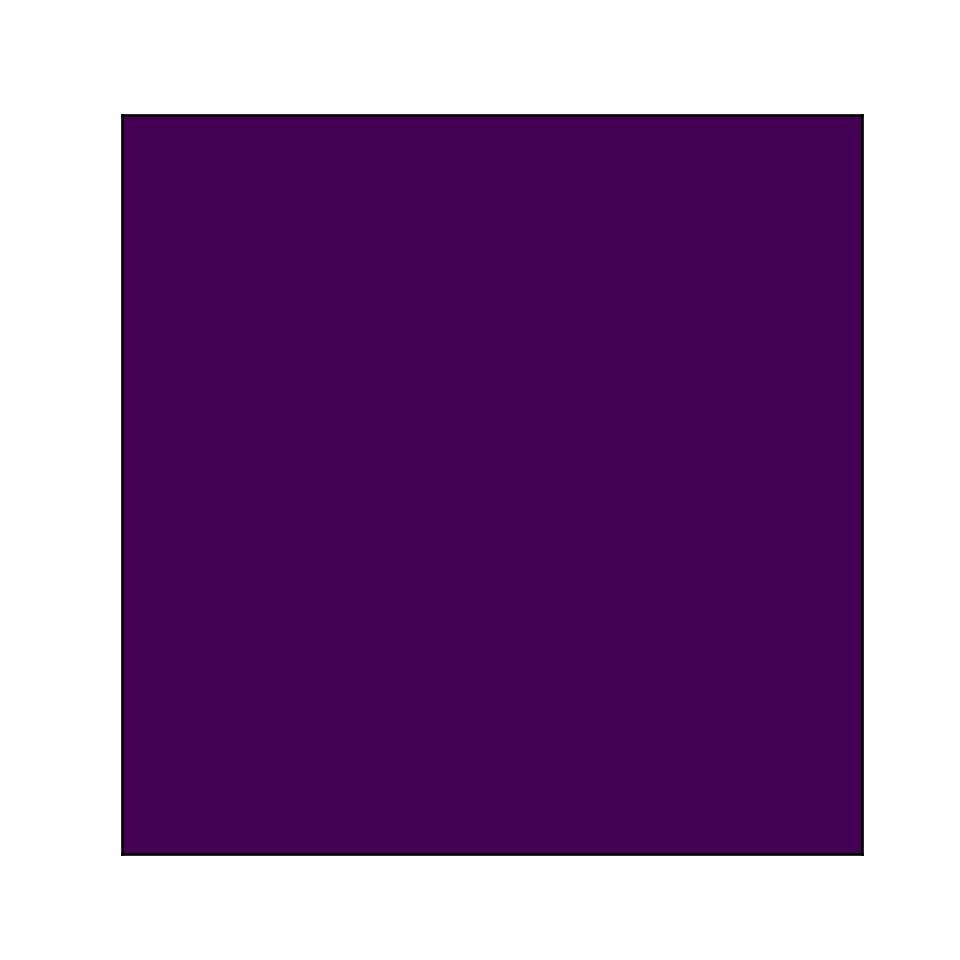
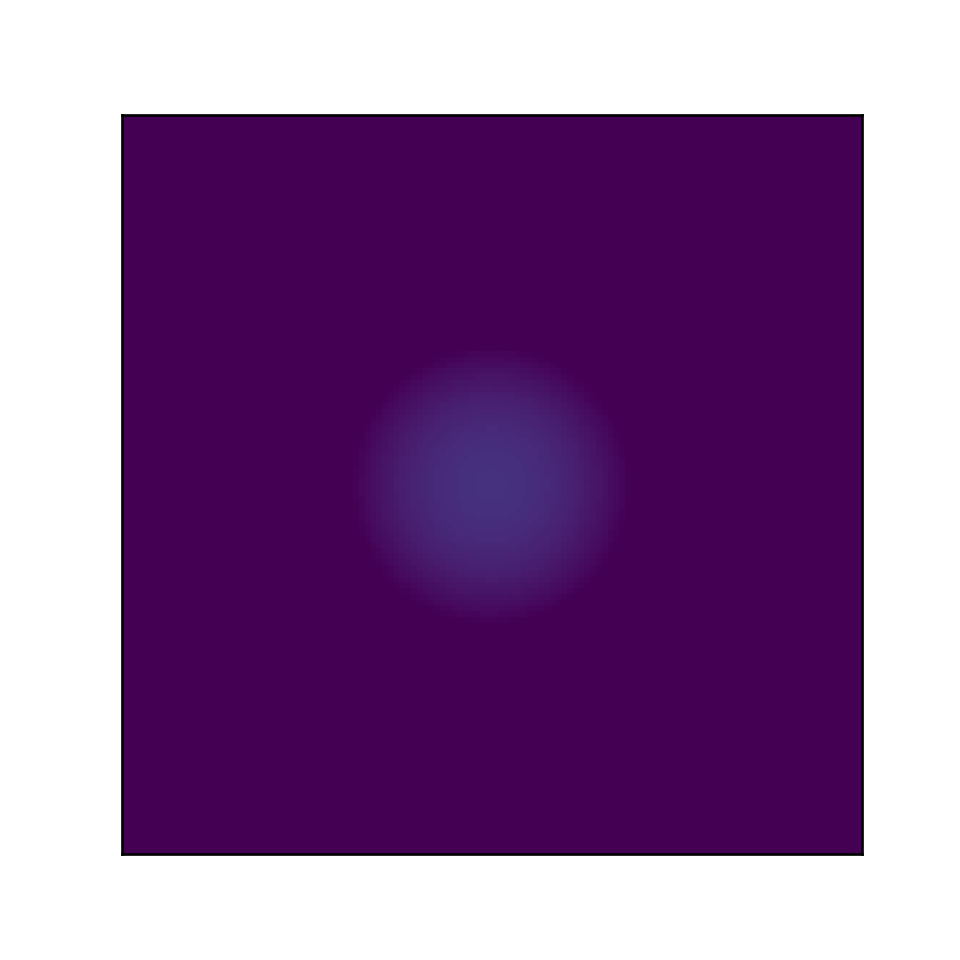
Changes to the initial conditions, fixing bugs with minmod2 function

Changed region(s): [[0.4062, 0.4062, 0.625, 0.625]]

diff --git a/main.py b/main.py
@@ -4,36 +4,51 @@ from scipy.interpolate import CubicSpline, interp1d
 from KTalgorithm import *
 from EoS import *
 
+def plot_density(x,y,z):
+
+    h = plt.contourf(x, y, z)
+    plt.axis('scaled')
+    plt.colorbar()
+    plt.show()
+
 
 def main():
     """ Finite Volume simulation """
     
     # Simulation parameters
     N                      = 128 # resolution
-    boxsize                = 1.
-    gamma                  = 5/3 # ideal gas gamma
-    zeta                   = 1   # bulk viscosity coefficient
+    boxsize                = 1.  # in some unit system l
+    gamma                  = 5/3 # adiabatic index
+    zeta                   = 0.2 # bulk viscosity coefficient
     tau_nu                 = 1
     courant_fac            = 0.4
-    cs                     = 1/3
-    t                      = 0
+    cs                     = 1   # l/s
+    t                      = 0   # s 
     tEnd                   = 2
     tOut                   = 0.02
     plotRealTime = True # switch on for plotting as the simulation goes along
+
+    a = 0  #count
     
     # Mesh
     dx = boxsize / N
     vol = dx**2
-    xlin = np.linspace(0.5*dx, boxsize-0.5*dx, N)
-    Y, X = np.meshgrid( xlin, xlin )
+    xlin = np.linspace(0.5*dx, boxsize-0.5*dx, N, dtype=np.float64 )
+    Y, X = np.meshgrid( xlin, xlin)
     
     # Generate Initial Conditions  
-    
+
     w0 = 0.1
-    rho = np.sqrt((X-(boxsize-0.5*dx)*0.5)**2 + (Y-(boxsize-0.5*dx)*0.5)**2) < 0.5-0.5*dx
-    v1 = w0*np.exp(-(X-(boxsize-0.5*dx)*0.5)**2) 
-    v2 = w0*np.exp(-(Y-(boxsize-0.5*dx)*0.5)**2) 
-    vx = np.sqrt(v1**2 + v2**2)
+    sigma = 5/np.sqrt(2.)
+    rho = np.exp(-(X-(boxsize-0.5*dx)*0.5)**2  / 2*(sigma**2) - (Y-(boxsize-0.5*dx)*0.5)**2 / 2*(sigma**2)) 
+    # put Cubic spline in place of Gaussian
+    plot_density(X,Y,rho)
+
+
+    v1 = -w0*np.exp(-(X-(boxsize-0.5*dx)*0.5)**2 / 2*(sigma**2)) 
+    v2 = -w0*np.exp(-(Y-(boxsize-0.5*dx)*0.5)**2 / 2*(sigma**2)) 
+    vx =  np.sin( np.sqrt(v1**2 + v2**2))
+    plot_density(X,Y,vx)
     P = 2.5 * np.ones(X.shape)
     Pi = np.zeros(X.shape)
     Pi_vx = Pi*vx
@@ -47,14 +62,16 @@ def main():
 
     # Simulation Main Loop
     while t < tEnd:
-        
+
         # get Primitive variables
         rho, vx, P = getPrimitive( Mass, Momx, Energy, gamma, vol )
+
+        #print(a,rho)
+        #a +=1
         
         # get time step (CFL) = dx / max signal speed
-        dt = courant_fac * np.min( np.divide(dx , (np.sqrt( np.divide( gamma*P, rho, out=np.zeros_like(gamma*P), where=rho!=0)) + np.sqrt(vx**2)),
-		  out=np.zeros_like((np.sqrt( np.divide( gamma*P, rho, out=np.zeros_like(gamma*P), where=rho!=0)) + np.sqrt(vx**2))),
-		   where=(np.sqrt( np.divide( gamma*P, rho, out=np.zeros_like(gamma*P), where=rho!=0)) + np.sqrt(vx**2))!=0) )
+        dt = courant_fac*np.min( np.divide(dx , (np.abs(vx)) , out=np.zeros_like(vx) , where=(np.abs(vx))!=0 ))
+      
         plotThisTurn = False
         if t + dt > outputCount*tOut:
             dt = outputCount*tOut - t
@@ -67,13 +84,14 @@ def main():
         Pi_dx = getGradient(Pi,   dx)
         
         # extrapolate half-step in time
+    
         rho_prime = rho - 0.5*dt * ( vx * rho_dx + rho * vx_dx)
-        vx_prime  = vx  - 0.5*dt * ( vx * vx_dx + np.divide(1 , rho, out=np.zeros_like(rho), where=rho!=0) * P_dx )
+
+        vx_prime  = vx  - 0.5*dt * np.divide(( vx * vx_dx * rho + P_dx ), rho , out=np.zeros_like(vx * vx_dx * rho + P_dx), where=rho!=0)
         P_prime   = P   - 0.5*dt * ( gamma*P * (vx_dx)  + vx * P_dx  )
         Pi_prime  = Pi  - 0.5*dt * (Pi_dx)
         
         # extrapolate in space to face centers
-        # qM_XL, qP_XL, qM_XR, qP_XR
 
         rhoM_XL, rhoP_XL, rhoM_XR, rhoP_XR = extrapolateInSpaceToFace(rho_prime, rho_dx, dx)
         vxM_XL,  vxP_XL,  vxM_XR,  vxP_XR  = extrapolateInSpaceToFace(vx_prime,  vx_dx,  dx)
@@ -81,23 +99,36 @@ def main():
         PiM_XL,  PiP_XL,  PiM_XR,  PiP_XR  = extrapolateInSpaceToFace(Pi_prime,  Pi_dx,  dx)
         
         # compute fluxes (local Kurganov-Tadmor)
-        # getFlux(rho_L, rho_R, vx_L, vx_R, Pi_L, Pi_R, P_L, P_R, gamma) inputs
-        # flux_Mass, flux_Momx, flux_Energy, flux_Pi_v outputs 
 
         flux_Mass_XR, flux_Momx_XR, flux_Energy_XR, flux_Pi_vxR = getFlux(rhoP_XR, rhoM_XR, vxP_XR, vxM_XR, PiM_XR, PiP_XR, PP_XR, PM_XR, gamma, cs)
         flux_Mass_XL, flux_Momx_XL, flux_Energy_XL, flux_Pi_vxL = getFlux(rhoP_XL, rhoM_XL, vxP_XL, vxM_XL, PiM_XL, PiP_XL, PP_XL, PM_XL, gamma, cs)
-
         
         # update solution
-        # applyFluxes(H, flux_H_X, dx)
 
         J = Pi*vx_dx - (zeta / tau_nu * vx_dx + Pi / tau_nu)
 
-        Mass   = applyFluxes(Mass,   flux_Mass_XR,   dx) - applyFluxes(Mass, flux_Mass_XL, dx)
-        Momx   = applyFluxes(Momx,   flux_Momx_XR,   dx) - applyFluxes(Momx, flux_Momx_XL, dx)
-        Energy = applyFluxes(Energy, flux_Energy_XR, dx) - applyFluxes(Energy, flux_Energy_XL, dx)
-        Pi_vx  = applyFluxes(Pi_vx,  flux_Pi_vxR,  dx, J) - applyFluxes(Pi_vx,  flux_Pi_vxL,  dx, J)
+        Mass   = applyFluxes(Mass,   flux_Mass_XR,   flux_Mass_XL,   dx)
+        # print('Mass',Mass)
+        Momx   = applyFluxes(Momx,   flux_Momx_XR,   flux_Momx_XL,   dx) 
+        # print('Momentum',Momx)
+        Energy = applyFluxes(Energy, flux_Energy_XR, flux_Energy_XL, dx)
+        # print('Energy',Energy)
+        Pi_vx  = applyFluxes(Pi_vx,  flux_Pi_vxR,    flux_Pi_vxL,    dx, J)
+        # print('Pi v',Pi_vx)
         
+
+        # Boundary conditions
+        ''' 
+        rho[0][:] = rho[3][:]
+        rho[1][:] = rho[3][:]        
+        rho[N-1][:] = rho[N-4][:]
+        rho[N-3][:] = rho[N-4][:]
+        rho[:][0] = rho[:][3]
+        rho[:][1] = rho[:][3]        
+        rho[:][N-1] = rho[:][N-4]
+        rho[:][N-2] = rho[:][N-4]
+        '''
+
         # update time
         t += dt
         
@@ -113,6 +144,8 @@ def main():
             ax.set_aspect('equal')  
             plt.pause(0.001)
             outputCount += 1
+            
+          
   
     
     # Save figure
@@ -122,7 +155,7 @@ def main():
 
     return 0
 
-
+  
 
 if __name__== "__main__":
   main()

diff --git a/KTalgorithm.py b/KTalgorithm.py
@@ -1,7 +1,9 @@
+
 import numpy as np
 
 def minmod2(x,y):
-  return (sign(x) + sign(y))*np.min(abs(x)*abs(y))
+  return (sign(x) + sign(y))*np.minimum(np.abs(x), np.abs(y))
+  
 
 def minmod3(x,y,z):
   return minmod2(x,minmod2(y,z))
@@ -9,8 +11,6 @@ def minmod3(x,y,z):
 def sign(x):
   return np.sign(x)
 
-def q_r(q,i,dr,theta):
-  return minmod3(theta*(q(i) - q(i-1))/dr,theta*(q(i+1) - q(i-1))/dr,theta*(q(i) - q(i-1))/(2*dr),theta*(q(i+1) - q(i))/dr)
 
 def getGradient(f, dx, theta=1):
 	"""
@@ -24,7 +24,7 @@ def getGradient(f, dx, theta=1):
 	R = -1   # right
 	L = 1    # left
 	
-	df_dx = minmod3( theta * ( f - np.roll(f,L,axis=0) )/dx, theta * (np.roll(f,R,axis=0) - np.roll(f,L,axis=0) ) / (2*dx),theta * ( f - np.roll(f,L,axis=0) ) / dx)
+	df_dx = minmod3( theta * ( f - np.roll(f,L,axis=0) )/dx, theta * (np.roll(f,R,axis=0) - np.roll(f,L,axis=0) ) / (2*dx), theta * ( f - np.roll(f,L,axis=0) ) / dx)
 
 	return df_dx
 
@@ -89,7 +89,7 @@ def getFlux(rho_P, rho_M, vx_P, vx_M, Pi_P, Pi_M, P_P, P_M, gamma, cs):
   # Pressure equation of state
   P_star = (gamma-1)*(en_star-np.divide(0.5*(momx_star**2),rho_star, out=np.zeros_like(0.5*(momx_star**2)), where=rho_star!=0))
   
-  # compute fluxes (local Kurganov-Tadamor)
+  # compute fluxes (local Kurganov-Tadmor)
   flux_Mass   = momx_star
   flux_Momx   = np.divide(momx_star**2,rho_star, out=np.zeros_like(momx_star**2), where=rho_star!=0) + P_star + P_star
   flux_Energy = (en_star+P_star) * np.divide(momx_star,rho_star, out=np.zeros_like(momx_star), where=rho_star!=0)
@@ -97,23 +97,35 @@ def getFlux(rho_P, rho_M, vx_P, vx_M, Pi_P, Pi_M, P_P, P_M, gamma, cs):
   
   # find wavespeeds
 
-  C1_P = vx_P
-  C1_M = vx_M
+  C1_P = np.abs(vx_P)
+  C1_M = np.abs(vx_M)
   C1 = np.maximum( C1_P, C1_M )
 
-  C2_P = rho_P*vx_P - np.sqrt(np.divide(Pi_P * rho_P + cs**2 * rho_P**2 - rho_P * vx_P**2 +  rho_P**2 * vx_P**2 ,rho_P,
-   out=np.zeros_like(Pi_P * rho_P + cs**2 * rho_P**2 - rho_P * vx_P**2 +  rho_P**2 * vx_P**2), where=rho_P!=0))
-  C2_M = rho_M*vx_M - np.sqrt(np.divide(Pi_M * rho_M + cs**2 * rho_M**2 - rho_M * vx_M**2 +  rho_M**2 * vx_M**2 ,rho_M,
-   out=np.zeros_like(Pi_M * rho_M + cs**2 * rho_M**2 - rho_M * vx_M**2 +  rho_M**2 * vx_M**2), where=rho_M!=0))
+
+  
+  C2_P = np.abs(rho_P*vx_P - np.sqrt(np.abs(np.divide(Pi_P * rho_P + cs**2 * rho_P**2 - rho_P * vx_P**2 +  rho_P**2 * vx_P**2 ,rho_P,
+   out=np.zeros_like(Pi_P * rho_P + cs**2 * rho_P**2 - rho_P * vx_P**2 +  rho_P**2 * vx_P**2), where=rho_P!=0))))
+  C2_M = np.abs(rho_M*vx_M - np.sqrt(np.abs(np.divide(Pi_M * rho_M + cs**2 * rho_M**2 - rho_M * vx_M**2 +  rho_M**2 * vx_M**2 ,rho_M,
+   out=np.zeros_like(Pi_M * rho_M + cs**2 * rho_M**2 - rho_M * vx_M**2 +  rho_M**2 * vx_M**2), where=rho_M!=0))))
   C2 = np.maximum( C2_P, C2_M )
 
-  C3_P = rho_P*vx_P + np.sqrt(np.divide(Pi_P * rho_P + cs**2 * rho_P**2 - rho_P * vx_P**2 +  rho_P**2 * vx_P**2 ,rho_P,
-   out=np.zeros_like(Pi_P * rho_P + cs**2 * rho_P**2 - rho_P * vx_P**2 +  rho_P**2 * vx_P**2), where=rho_P!=0))
-  C3_M = rho_M*vx_M - np.sqrt(np.divide(Pi_M * rho_M + cs**2 * rho_M**2 - rho_M * vx_M**2 +  rho_M**2 * vx_M**2 ,rho_M,
-   out=np.zeros_like(Pi_M * rho_M + cs**2 * rho_M**2 - rho_M * vx_M**2 +  rho_M**2 * vx_M**2), where=rho_M!=0))
+  C3_P = np.abs(rho_P*vx_P + np.sqrt(np.abs(np.divide(Pi_P * rho_P + cs**2 * rho_P**2 - rho_P * vx_P**2 +  rho_P**2 * vx_P**2 ,rho_P,
+   out=np.zeros_like(Pi_P * rho_P + cs**2 * rho_P**2 - rho_P * vx_P**2 +  rho_P**2 * vx_P**2), where=rho_P!=0))))
+  C3_M = np.abs(rho_M*vx_M - np.sqrt(np.abs(np.divide(Pi_M * rho_M + cs**2 * rho_M**2 - rho_M * vx_M**2 +  rho_M**2 * vx_M**2 ,rho_M,
+   out=np.zeros_like(Pi_M * rho_M + cs**2 * rho_M**2 - rho_M * vx_M**2 +  rho_M**2 * vx_M**2), where=rho_M!=0))))
   C3 = np.maximum( C3_P, C3_M )
 
+
   C = np.maximum( C1, C2, C3 )
+
+  # add stabilizing diffusive term
+  flux_Mass   -= C * 0.5 * (rho_P - rho_M)
+  flux_Momx   -= C * 0.5 * (rho_P * vx_P - rho_M * vx_M)
+  flux_Energy -= C * 0.5 * ( en_P - en_M )
+  flux_Pi_v   -= C * 0.5 * ( Pi_P - Pi_M )
+
+  return flux_Mass, flux_Momx, flux_Energy, flux_Pi_v
+
   
   # add stabilizing diffusive term
   flux_Mass   -= C * 0.5 * (rho_P - rho_M)
@@ -123,19 +135,19 @@ def getFlux(rho_P, rho_M, vx_P, vx_M, Pi_P, Pi_M, P_P, P_M, gamma, cs):
 
   return flux_Mass, flux_Momx, flux_Energy, flux_Pi_v
 
-def applyFluxes(H, flux_H_X, dx, J = 0):
-	"""
+
+def applyFluxes(H, flux_H1_X, flux_H2_X , dx, J = 0):
+    """
     Apply fluxes to conserved variables
-	H        is a matrix of the conserved variable field
-	flux_H_X is a matrix of the x-dir fluxes
-	dx       is the cell size
-	"""
-	# directions for np.roll() 
-	R = -1   # right
-	L = 1    # left
-	
-	# update solution
-	H += - flux_H_X / dx
-	H += J
-	
-	return H
+    H         is a matrix of the conserved variable field
+    flux_H1_X is a matrix of the x-dir fluxes
+    flux_H2_X is a matrix of the x-dir fluxes
+    dx        is the cell size
+    """
+    
+    # update solution
+    H += - (flux_H1_X - flux_H2_X ) / dx
+    H += J
+    
+    return H
+

diff --git a/EoS.py b/EoS.py
@@ -15,7 +15,7 @@ def getConserved( rho, vx, P, gamma, vol ):
 	"""
 	Mass   = rho * vol
 	Momr   = rho * vx * vol
-	Energy = (P/(gamma-1) + 0.5* rho *(vx)*vol)
+	Energy = (P/(gamma-1) + 0.5* rho *(vx**2)*vol)
 	
 	return Mass, Momr, Energy
 
@@ -28,7 +28,7 @@ def getPrimitive( Mass, Momx, Energy, gamma, vol ):
   gamma    is ideal gas gamma
   vol      is cell volume
   rho      is matrix of cell densities
-  vx       is matrix of cell r-velocity
+  vx       is matrix of cell x-velocity
   P        is matrix of cell pressures
   """
   rho = Mass / vol
